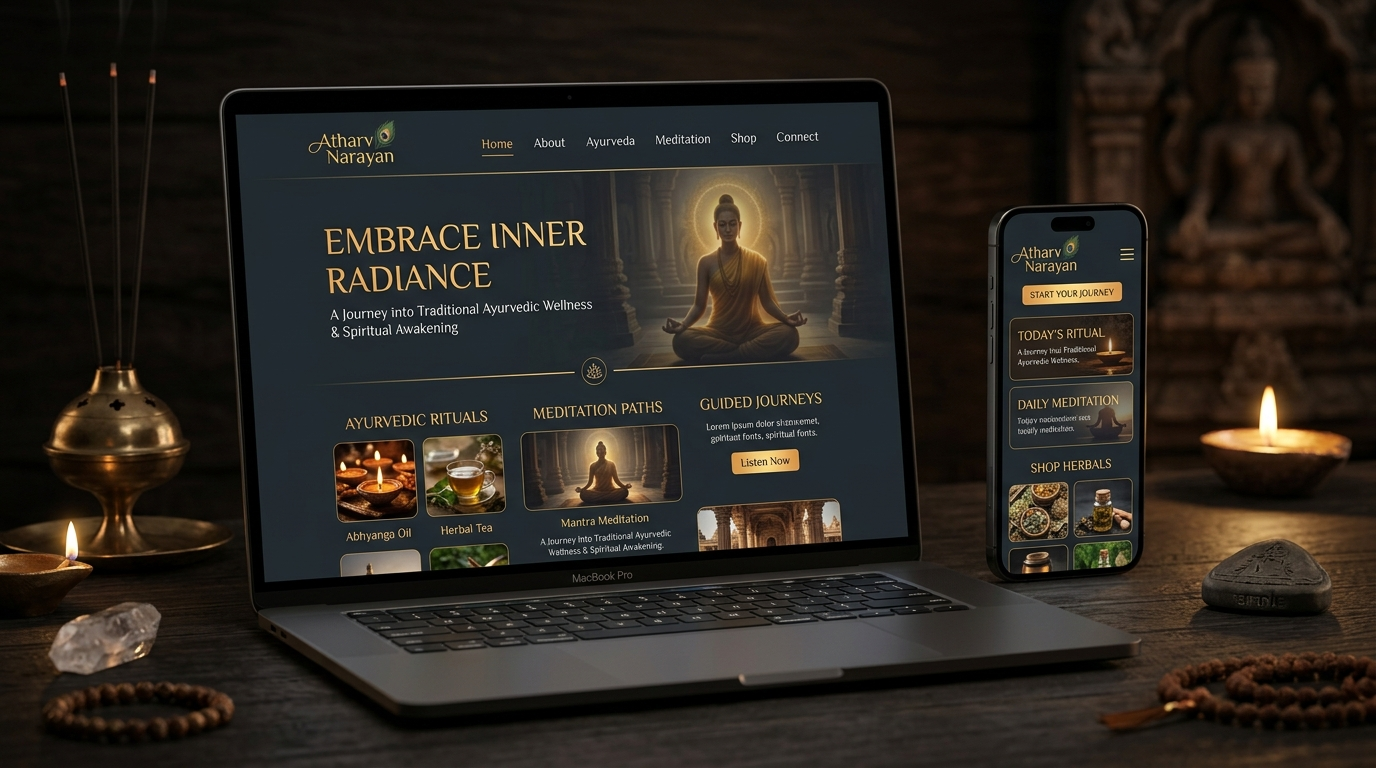
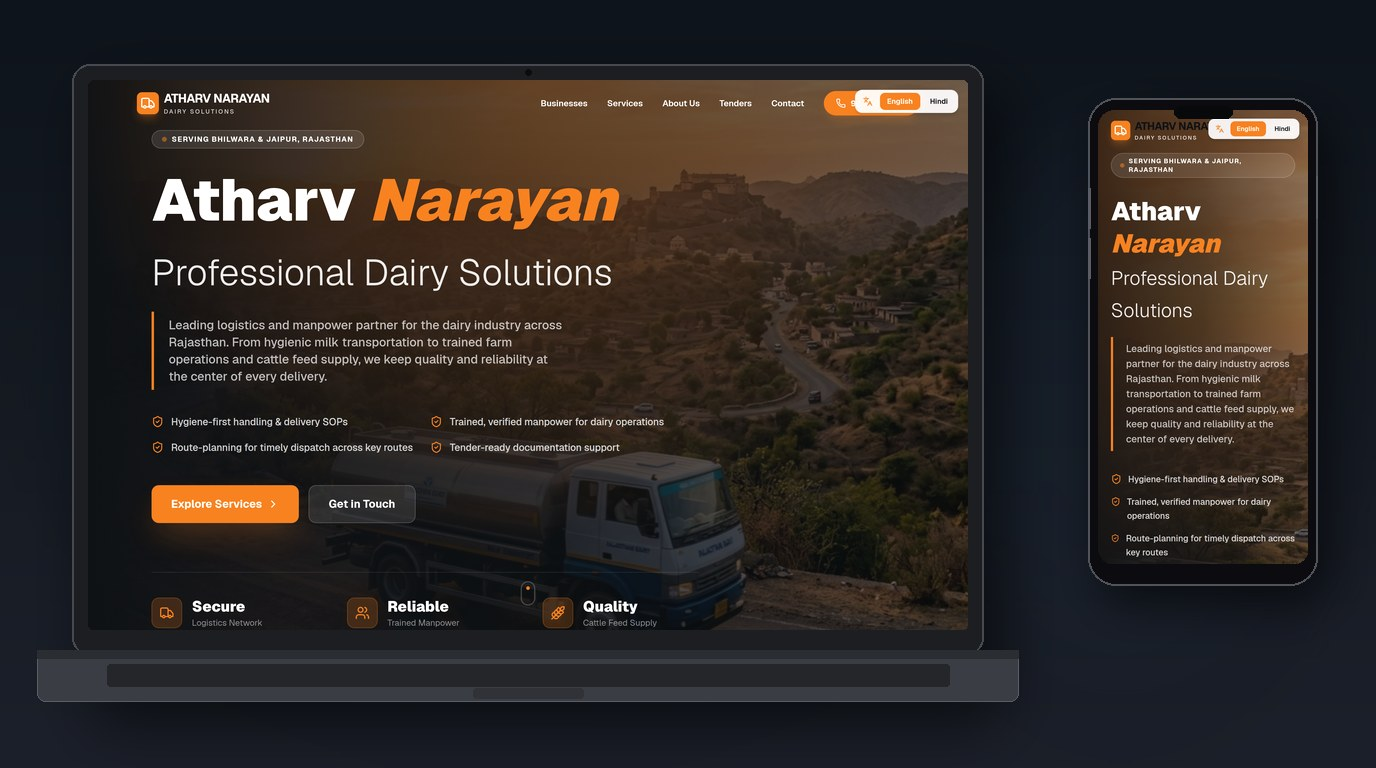
Fix Atharv Narayan portfolio to match the live dairy logistics site. (#61)
Replace the Ayurveda mockup with a laptop/phone composite from real atharvnarayan.in screenshots, rename the slug, 308 the old wellness URL, and update titles, copy, and alt text.

diff --git a/src/json/landingPageData.js b/src/json/landingPageData.js
@@ -59,6 +59,12 @@ function caseStudyWordCount(project) {
  * Index a portfolio URL only when it has a real case study (at least 300
  * words) and is not a demo template. Short cards stay live and noindex.
  */
+export function portfolioImageAlt(project) {
+  if (!project) return "Portfolio project by TheTriFusion";
+  if (project.imageAlt) return project.imageAlt;
+  return `${project.title} — ${project.type} project by TheTriFusion`;
+}
+
 export function isIndexablePortfolio(project) {
   if (!project) return false;
   if (caseStudyWordCount(project) < 300) return false;
@@ -109,20 +115,33 @@ export const Portfolios = [
     credit: "https://www.connectdairy.in/",
   },
   {
-    id: "atharv-narayan-wellness-website",
-    title: "Atharv Narayan",
+    id: "atharv-narayan-dairy-logistics-website",
+    title: "Atharv Narayan Dairy Solutions",
     imageUrl: AtharvNarayanImg,
     type: "Website",
     featured: true,
+    tags: [
+      "dairy logistics",
+      "milk transportation",
+      "manpower",
+      "cattle feed",
+      "tenders",
+      "bilingual",
+      "Bhilwara",
+      "Jaipur",
+    ],
+    imageAlt:
+      "Atharv Narayan Dairy Solutions website on laptop and phone — bilingual dairy logistics site for milk transport, manpower, cattle feed, and tenders in Bhilwara and Jaipur",
     cardDescription:
-      "Dairy services website — Jaipur/Bhilwara leads, inquiry and WhatsApp flows",
+      "Bilingual dairy logistics website — Bhilwara & Jaipur milk transport, manpower, cattle feed, tenders",
+    relatedServiceSlug: "website-development",
     description:
-      "Atharv Narayan is a live dairy solutions website for Bhilwara and Jaipur: milk transportation, trained dairy manpower, cattle-feed supply, and tender support — with service pages, inquiry flows, and WhatsApp-ready contact.",
+      "Atharv Narayan Dairy Solutions is a live bilingual (English/Hindi) website for a dairy logistics and manpower partner in Bhilwara and Jaipur, Rajasthan. The site presents hygienic temperature-controlled milk transportation, trained dairy manpower, cattle-feed supply, and tender documentation support, with service pages, enquiry forms, and WhatsApp-ready contact. Group verticals on the live site include Manvender Singh Enterprises, Atharv Narayan Cattle Feed, and Atharv Narayan Tenders.",
     responsibility: [
       "Web Development",
       "UI/UX Design",
-      "Lead & Inquiry Flows",
-      "Content Management",
+      "Bilingual English / Hindi",
+      "Lead, enquiry & WhatsApp flows",
     ],
     credit: "https://www.atharvnarayan.in/",
   },
@@ -471,10 +490,10 @@ export const Testimonials = [
   },
   {
     id: 4,
-    name: "Atharv Narayan",
-    company: "Case: dairy solutions site",
+    name: "Atharv Narayan Dairy Solutions",
+    company: "Case: dairy logistics website",
     testimoni:
-      "Lead-gen site for dairy logistics and manpower across Bhilwara and Jaipur — transport, feed, tenders, and inquiry forms live at atharvnarayan.in.",
+      "Bilingual lead-gen site for dairy logistics and manpower across Bhilwara and Jaipur — milk transport, trained staff, cattle feed, tenders, and enquiry forms live at atharvnarayan.in.",
     imageUrl: AtharvNarayanImg,
     url: "https://www.atharvnarayan.in/",
     linkLabel: "Open live case → atharvnarayan.in",

diff --git a/src/data/cityServiceAreaPages.js b/src/data/cityServiceAreaPages.js
@@ -36,7 +36,7 @@ const bhilwara = {
     },
     {
       title: "A real Bhilwara reference we can show",
-      body: "We do not publish unnamed case studies. One build that is already public is Atharv Narayan, a dairy-services website covering Bhilwara and Jaipur: milk transportation, trained dairy manpower, cattle-feed supply, and tender support, with service pages and an enquiry path. The live site is atharvnarayan.in and the portfolio note is on this website under Atharv Narayan. Connect Dairy, the related agri-logistics product, is a separate public URL (connectdairy.in) for fleet and operations workflows. Those pages are examples of work you can open. They are not a claim that we run textile mills, and they do not come with traffic or revenue numbers we have not published.",
+      body: "We do not publish unnamed case studies. One build that is already public is Atharv Narayan Dairy Solutions, a bilingual dairy-logistics website covering Bhilwara and Jaipur: hygienic milk transportation, trained dairy manpower, cattle-feed supply, and tender documentation support, with service pages and an enquiry path. The live site is atharvnarayan.in and the portfolio note is on this website under Atharv Narayan Dairy Solutions. Connect Dairy, the related agri-logistics product, is a separate public URL (connectdairy.in) for fleet and operations workflows. Those pages are examples of work you can open. They are not a claim that we run textile mills, and they do not come with traffic or revenue numbers we have not published.",
     },
     {
       title: "How Jaipur delivery works for a Bhilwara brief",
@@ -61,7 +61,7 @@ const bhilwara = {
     {
       question: "Is Atharv Narayan a Bhilwara project?",
       answer:
-        "Atharv Narayan is a live dairy-services website for Bhilwara and Jaipur that you can open at atharvnarayan.in. It is a public portfolio reference for service pages and enquiries, not a textile-mill case study and not a set of performance statistics.",
+        "Atharv Narayan Dairy Solutions is a live bilingual dairy-logistics website for Bhilwara and Jaipur that you can open at atharvnarayan.in. It is a public portfolio reference for service pages and enquiries, not a textile-mill case study and not a set of performance statistics.",
     },
     {
       question: "Will the site support Hindi and GST invoices?",
@@ -121,7 +121,7 @@ const bhilwara = {
     "A Bhilwara catalogue or company site is often a few weeks after photos and an approver are ready. Dealer portals and ecommerce are phased.",
   whatsappMessage:
     "Hi TriFusion, I run a business in Bhilwara and want a website scoped from your Jaipur team.",
-  relatedPortfolioIds: ["atharv-narayan-wellness-website"],
+  relatedPortfolioIds: ["atharv-narayan-dairy-logistics-website"],
   relatedServiceSlugs: [
     "website-development",
     "software-development",

diff --git a/src/parts/AllPortfolioEnhanced.js b/src/parts/AllPortfolioEnhanced.js
@@ -4,6 +4,7 @@ import React, { useState } from "react";
 import { Fade } from "react-awesome-reveal";
 import { Tab, Tabs, TabList, TabPanel } from "react-tabs";
 import Button from "elements/Button";
+import { portfolioImageAlt } from "json/landingPageData";
 
 export default function AllPortfolioEnhanced({ data }) {
   const [searchQuery, setSearchQuery] = useState("");
@@ -22,7 +23,11 @@ export default function AllPortfolioEnhanced({ data }) {
       filtered = filtered.filter(
         (item) =>
           item.title.toLowerCase().includes(searchQuery.toLowerCase()) ||
-          (item.description && item.description.toLowerCase().includes(searchQuery.toLowerCase()))
+          (item.description &&
+            item.description.toLowerCase().includes(searchQuery.toLowerCase())) ||
+          (item.tags || []).some((tag) =>
+            String(tag).toLowerCase().includes(searchQuery.toLowerCase())
+          )
       );
     }
 
@@ -62,7 +67,7 @@ export default function AllPortfolioEnhanced({ data }) {
                 <div className="relative">
                   <img
                     src={item.imageUrl}
-                    alt={`${item.title} — ${item.type} project by TheTriFusion`}
+                    alt={portfolioImageAlt(item)}
                     className="rounded-t-2xl z-0 w-full h-auto"
                   />
                   <div className="absolute flex w-full h-full top-0 opacity-0 bg-black justify-center rounded-t-2xl rounded-b img-hover transition-opacity duration-300">

diff --git a/src/parts/AllPortfolio.js b/src/parts/AllPortfolio.js
@@ -7,6 +7,7 @@ import { Fade } from "react-awesome-reveal";
 import { Tab, Tabs, TabList, TabPanel } from "react-tabs";
 
 import Button from "elements/Button";
+import { portfolioImageAlt } from "json/landingPageData";
 
 export default function AllPortfolio({ data }) {
   const mobile = data.filter((item) => item.type === "Mobile Apps");
@@ -46,7 +47,7 @@ export default function AllPortfolio({ data }) {
                       <div className="relative">
                         <img
                           src={item.imageUrl}
-                      alt={`${item.title} — ${item.type} project by TheTriFusion`}
+                      alt={portfolioImageAlt(item)}
                           className="rounded-t-2xl z-0"
                         />
                         <div className="absolute flex w-full h-full top-0 opacity-0 bg-black justify-center rounded-t-2xl rounded-b img-hover">
@@ -97,7 +98,7 @@ export default function AllPortfolio({ data }) {
                       <div className="relative">
                         <img
                           src={item.imageUrl}
-                      alt={`${item.title} — ${item.type} project by TheTriFusion`}
+                      alt={portfolioImageAlt(item)}
                           className="rounded-t-2xl z-0"
                         />
                         <div className="absolute flex w-full h-full top-0 opacity-0 bg-black justify-center rounded-t-2xl rounded-b img-hover">

diff --git a/src/views/AboutPage.js b/src/views/AboutPage.js
@@ -167,16 +167,17 @@ export default function AboutPage() {
               </p>
               <p>
                 <Link
-                  href="/portfolio/atharv-narayan-wellness-website"
+                  href="/portfolio/atharv-narayan-dairy-logistics-website"
                   className={linkClass}
                 >
-                  Atharv Narayan
+                  Atharv Narayan Dairy Solutions
                 </Link>{" "}
-                is a live website for a dairy solutions business serving
-                Bhilwara and Jaipur. It presents milk transportation, trained
-                dairy manpower, cattle-feed supply, and tender support, with
-                dedicated service pages, inquiry flows, and WhatsApp-ready
-                contact.
+                is a live bilingual (English/Hindi) website for a dairy logistics
+                and manpower partner serving Bhilwara and Jaipur. It presents
+                hygienic temperature-controlled milk transportation, trained
+                dairy manpower, cattle-feed supply, and tender documentation
+                support, with dedicated service pages, inquiry flows, and
+                WhatsApp-ready contact.
               </p>
               <p>
                 <Link

diff --git a/src/parts/PortfolioDetail.js b/src/parts/PortfolioDetail.js
@@ -7,6 +7,7 @@ import { Fade } from "react-awesome-reveal";
 import NotFound from "assets/images/NotFound.png";
 
 import Button from "elements/Button";
+import { portfolioImageAlt } from "json/landingPageData";
 
 function isLiveProjectUrl(credit) {
   return typeof credit === "string" && /^https?:\/\//i.test(credit);
@@ -85,7 +86,7 @@ export default function PortfolioDetail({ data }) {
             <div className="flex justify-center xl:mb-6">
               <img
                 src={item.imageUrl}
-                alt={`${item.title} — ${item.type} project by TheTriFusion`}
+                alt={portfolioImageAlt(item)}
                 className="flex w-4/5 sm:w-4/6"
               />
             </div>

diff --git a/src/parts/Portfolio.js b/src/parts/Portfolio.js
@@ -1,6 +1,7 @@
 import React from "react";
 import Image from "next/image";
 import Button from "../elements/Button";
+import { portfolioImageAlt } from "json/landingPageData";
 
 export default function Portfolio({ data }) {
   return (
@@ -18,7 +19,7 @@ export default function Portfolio({ data }) {
                 <div className="relative">
                   <Image
                     src={item.imageUrl}
-                    alt={`${item.title} — ${item.type} project by TheTriFusion`}
+                    alt={portfolioImageAlt(item)}
                     width={600}
                     height={400}
                     className="rounded-t-2xl z-0 w-full h-auto"

diff --git a/src/app/(en)/portfolio/[slug]/page.js b/src/app/(en)/portfolio/[slug]/page.js
@@ -24,7 +24,14 @@ export function generateMetadata({ params }) {
     description:
       project.description ||
       `View ${project.title} — a ${project.type} project by TheTriFusion.`,
-    keywords: `${project.title}, portfolio, ${project.type}, case study, TheTriFusion`,
+    keywords: [
+      project.title,
+      "portfolio",
+      project.type,
+      "case study",
+      "TheTriFusion",
+      ...(project.tags || []),
+    ].join(", "),
     path: `/portfolio/${project.id}`,
     noIndex: !isIndexablePortfolio(project),
   });

diff --git a/src/parts/Testimonial.js b/src/parts/Testimonial.js
@@ -29,7 +29,7 @@ export default function Testimonial({ data }) {
                 <div className="w-16 h-16 rounded-full p-1 bg-gradient-to-br from-theme-purple to-theme-blue">
                   <img
                     src={item.imageUrl}
-                    alt={`${item.name} project screenshot`}
+                    alt={`${item.name} — live project screenshot`}
                     className="w-full h-full rounded-full object-cover border-2 border-white"
                     width={64}
                     height={64}

diff --git a/src/data/adsLandingPages.js b/src/data/adsLandingPages.js
@@ -53,7 +53,7 @@ export const adsLandingPages = [
     },
     proofIds: [
       "plugone-ev-charging-platform",
-      "atharv-narayan-wellness-website",
+      "atharv-narayan-dairy-logistics-website",
       "dailyconcepts-ecommerce-pos",
     ],
     faqs: [
@@ -210,7 +210,7 @@ export const adsLandingPages = [
     proofIds: [
       "plugone-ev-charging-platform",
       "connect-dairy-supply-chain",
-      "atharv-narayan-wellness-website",
+      "atharv-narayan-dairy-logistics-website",
     ],
     faqs: [
       {

diff --git a/src/data/servicePlan/_shared.js b/src/data/servicePlan/_shared.js
@@ -44,5 +44,5 @@ export const LIVE = {
   plugone: "[PlugOne](https://plugone.in)",
   dairy: "[Connect Dairy](https://connectdairy.in)",
   daily: "[DailyConcepts India](https://dailyconceptsindia.com)",
-  atharv: "[Atharv Narayan](https://atharvnarayan.in)",
+  atharv: "[Atharv Narayan Dairy Solutions](https://atharvnarayan.in)",
 };
